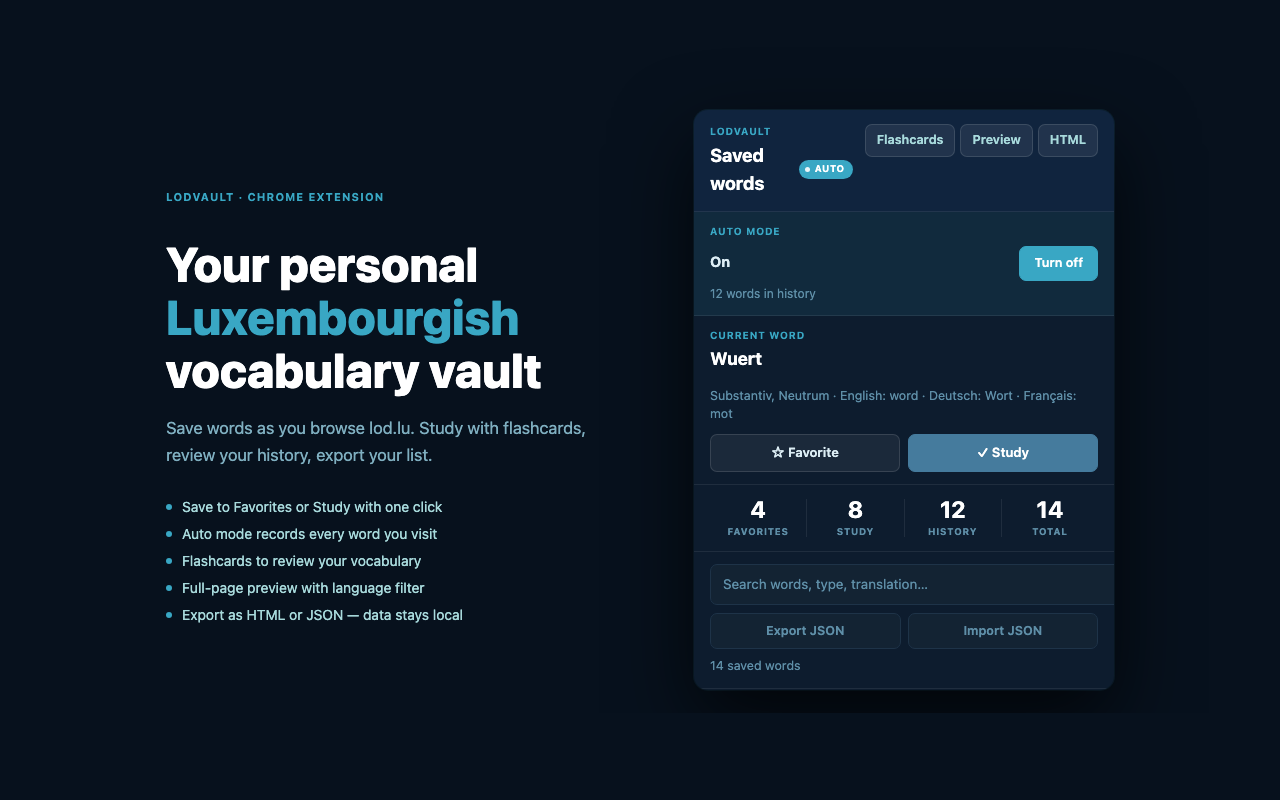
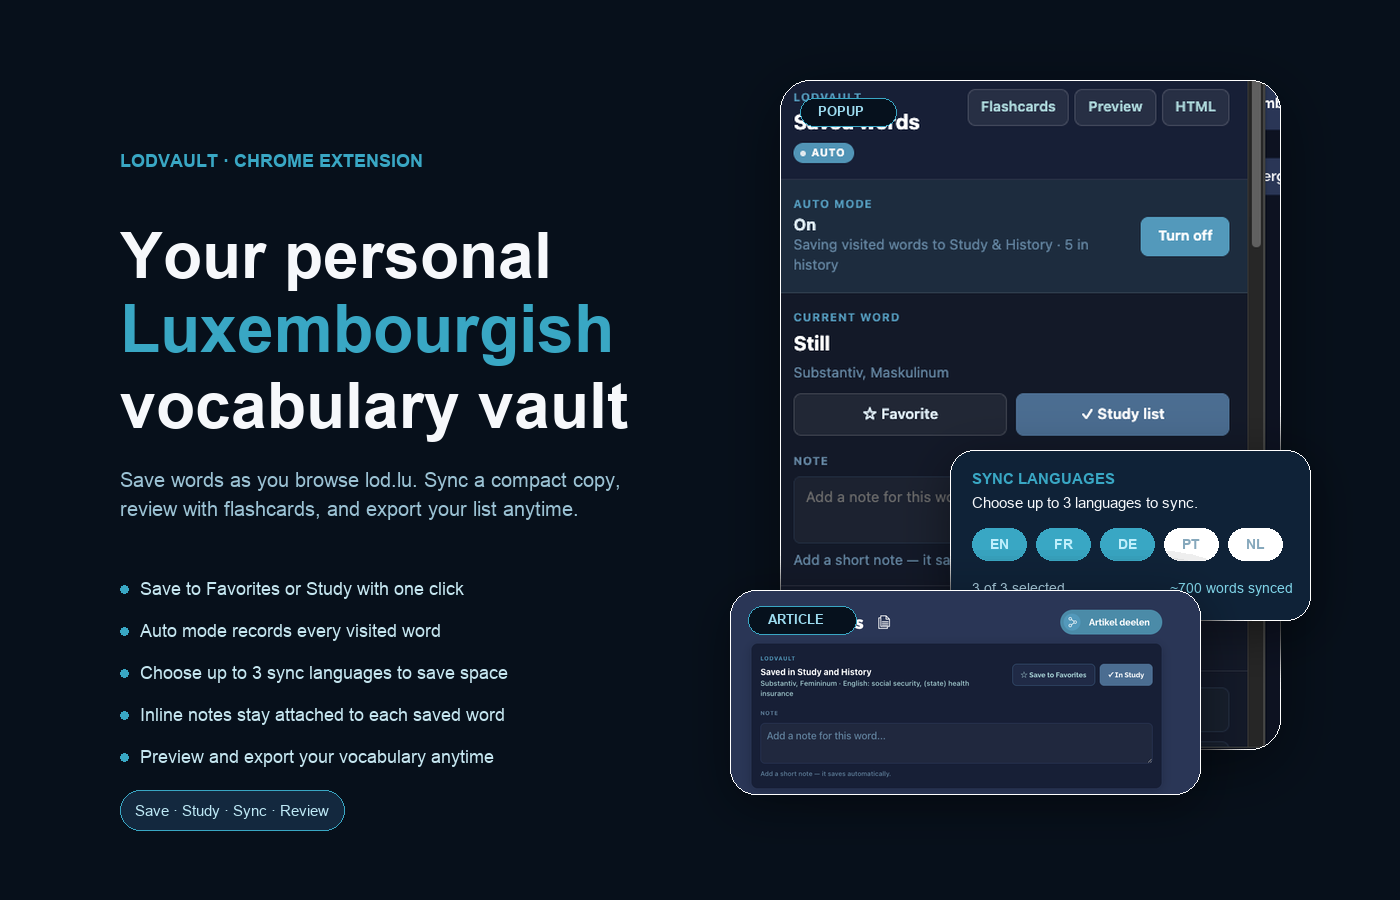
Refresh README screenshots and visuals

diff --git a/README.md b/README.md
@@ -19,13 +19,26 @@
 
 ![LODVault screenshot](lodvault-screenshot.png)
 
+## Screenshots
+
+<table>
+  <tr>
+    <td width="50%"><img src="docs/screenshots/page-banner.png" alt="LODVault banner injected into a lod.lu article page" /></td>
+    <td width="50%"><img src="docs/screenshots/preview-page.png" alt="LODVault preview page showing saved words and filters" /></td>
+  </tr>
+  <tr>
+    <td><strong>Inline article banner</strong><br/>Save the current word, see translations, and add notes without leaving lod.lu.</td>
+    <td><strong>Preview page</strong><br/>Browse your saved words in a searchable full-page view.</td>
+  </tr>
+</table>
+
 ---
 
 ## What is LODVault?
 
 [LOD — Lëtzebuerger Online Dictionnaire](https://lod.lu) is the official Luxembourgish dictionary. It is well-designed and comprehensive, but it has no way to save words, track vocabulary, or study what you have looked up.
 
-**LODVault** is a browser extension that adds that layer on top of LOD. It lives inside the pages you already use and gives you a personal, local vocabulary vault — no account required, no data leaves your browser.
+**LODVault** is a browser extension that adds that layer on top of LOD. It lives inside the pages you already use and gives you a personal, local vocabulary vault — no account required, no external backend, and optional browser sync when you want it.
 
 ---
 
@@ -41,7 +54,8 @@
 | 👁 **Preview** | Browse your full word list in a clean page — no download needed |
 | 📤 **Export HTML** | Download a standalone, searchable HTML page of your words |
 | 📦 **Export / Import JSON** | Back up and restore your vocabulary |
-| 🔒 **Local-first** | All data stored in `chrome.storage.local` — nothing leaves your browser |
+| ☁ **Optional browser sync** | Sync a compact copy across Chrome profiles with configurable language selection |
+| 🔒 **Local-first** | `chrome.storage.local` stays authoritative; sync is only a compact replica |
 
 ---
 
@@ -88,6 +102,7 @@ The **LODVault** icon will appear in your browser toolbar.
 ### Manage your words
 - Click the **LODVault icon** in your browser toolbar to open the popup
 - Turn **Auto mode** on if you want every visited LOD article to be added to **Study** and **History** automatically
+- Choose up to **3 sync languages** in the popup if you want a smaller synced copy across browsers
 - Search, add notes, toggle lists, or delete words from there
 
 ### Study with flashcards
@@ -119,18 +134,20 @@ npm test
 - save / remove / note flows
 - JSON import / export behavior
 - export HTML generation
-- popup rendering, default recent list behavior, and search filtering
+- popup rendering, sync language selection, default recent list behavior, and search filtering
 - flashcard deck refresh behavior when extension storage changes
-- background mutation queue behavior and LOD tab reloads on install
+- background mutation queue behavior, sync bridging, and LOD tab reloads on install
 - content-script extraction from LOD article pages
-- injected banner rendering and messaging
+- injected banner rendering, messaging, and saved-entry enrichment
+- compact sync serialization, merge behavior, sharding, and quota fallback logic
 
 ---
 
 ## Privacy
 
-- LODVault does **not** collect, transmit, or share any data
-- Everything you save stays in your browser via `chrome.storage.local`
+- LODVault does **not** collect, transmit, or share data with any external service
+- Everything you save lives in your browser via `chrome.storage.local`
+- If browser sync is enabled, a compact replica is stored in `chrome.storage.sync`
 - No analytics, no tracking, no external requests
 
 ---
